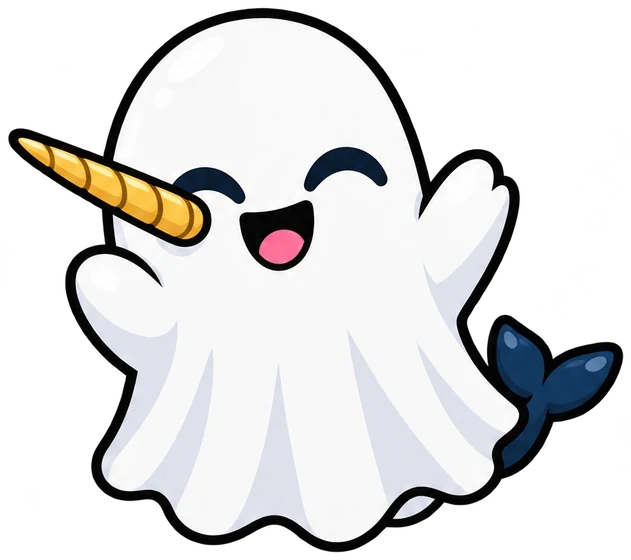
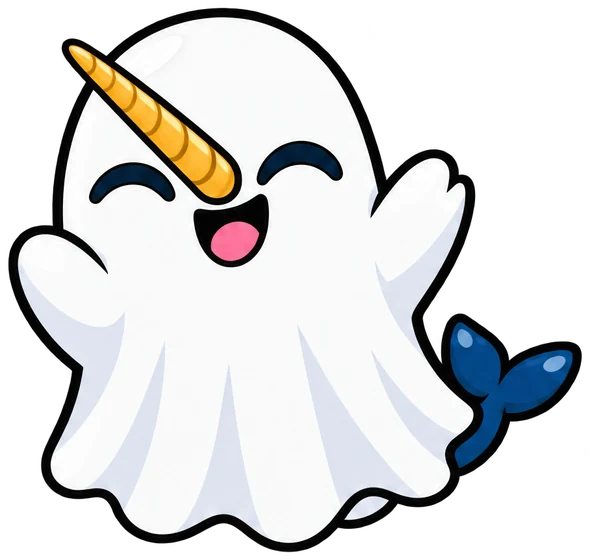
Halloween v7: nothing gets clipped - full-viewport canvas, ghosts fade in/out before the edge, rows moved up; narwhal host redrawn with the tusk centred on its face

Changed region(s): [[0.0, 0.0, 1.0, 1.0]]

diff --git a/Narwhal Thai Table/components/fx/Halloween.tsx b/Narwhal Thai Table/components/fx/Halloween.tsx
@@ -30,9 +30,12 @@ import { cn } from '@/lib/cn';
  * (560 px tall, 25–48 KB each). All the motion — peeking, waving, bubbles,
  * flights, the broom toss, the roar — is this canvas script.
  *
- * Same conventions as components/fx/Airshow.tsx: fixed canvas in the strip
- * under the nav (42 % of the viewport; a 160 px lane on phones — the gang
- * keeps to the right half on wide screens so the headline stays readable),
+ * Same conventions as components/fx/Airshow.tsx: a fixed full-viewport
+ * canvas (so a hem or a tail is never clipped — owner, 27 Oct) laid out in
+ * the strip under the nav (42 % of the viewport; a 160 px lane on phones —
+ * the gang keeps to the right half on wide screens so the headline stays
+ * readable); ghosts fade in on arrival and fade out before they reach the
+ * edge of the screen; only the host's peek is clipped by the edge, on purpose,
  * pauses when the tab is hidden, half-ghosts itself once the reader has
  * scrolled into content, motion always on (owner's rule). Mounted by
  * components/fx/AirshowLayer.tsx while lib/events.ts has an event with
@@ -77,7 +80,7 @@ const TRAITS: Record<Kind, Trait> = {
   devil: { tIn: 15.2, tOut: 29.9, inDur: 1.2, outDur: 1.0, style: 'arc', size: 0.72, bobA: 6, bobF: 0.6, trick: 'spin', every: [2.5, 4.5], trickDur: 0.85, phone: false },
   rider: { tIn: 15.0, tOut: 31.0, inDur: 1.4, outDur: 1.1, style: 'arc', size: 0.88, bobA: 5, bobF: 0.4, trick: 'none', every: [9, 9], trickDur: 0, phone: true },
   pumpkin: { tIn: 15.5, tOut: 30.5, inDur: 2.6, outDur: 2.0, style: 'slow', size: 0.86, bobA: 5, bobF: 0.25, trick: 'lift', every: [3.5, 6], trickDur: 0.9, phone: true },
-  fierce: { tIn: 19.5, tOut: 32.0, inDur: 2.2, outDur: 2.0, style: 'slow', size: 1.15, bobA: 3, bobF: 0.25, trick: 'none', every: [9, 9], trickDur: 0, phone: true },
+  fierce: { tIn: 19.5, tOut: 32.0, inDur: 2.2, outDur: 2.0, style: 'slow', size: 1.1, bobA: 3, bobF: 0.25, trick: 'none', every: [9, 9], trickDur: 0, phone: true },
 };
 const CAST = Object.keys(TRAITS) as Kind[];
 /** what each kind wears */
@@ -123,7 +126,8 @@ export default function Halloween({ className }: Props) {
     if (!ctx) return;
 
     let w = 0;
-    let h = 0; // canvas height = bottom of the band
+    let h = 0; // bottom of the band (layout only — the canvas itself runs the full viewport so nothing is ever clipped)
+    let ch = 0; // canvas height = viewport height
     let yT = 110; // top of the band (under the nav)
     let phone = false;
     let lead = 150; // lead ghost drawn height
@@ -172,8 +176,8 @@ export default function Halloween({ className }: Props) {
         const back = shuffle(cast.filter((k) => ['cat', 'devil', 'candy', 'rider', 'mummy'].includes(k)));
         const frontOrder: (Kind | 'host')[] = [...front.slice(0, 2), 'host', 'fierce', ...front.slice(2)];
         const step = (right - left) / frontOrder.length;
-        frontOrder.forEach((k, i) => seats.push({ kind: k, x: left + step * (i + 0.5), y: bandY(0.74), mul: 1, row: 1 }));
-        back.forEach((k, i) => seats.push({ kind: k, x: left + step * (i + 1) + rand(-10, 10), y: bandY(0.34) + rand(-8, 8), mul: 0.9, row: 0 }));
+        frontOrder.forEach((k, i) => seats.push({ kind: k, x: left + step * (i + 0.5), y: bandY(0.66), mul: 1, row: 1 }));
+        back.forEach((k, i) => seats.push({ kind: k, x: left + step * (i + 1) + rand(-10, 10), y: bandY(0.3) + rand(-6, 6), mul: 0.9, row: 0 }));
       }
       const host = seats.find((s) => s.kind === 'host')!;
       leadSlot = { x: host.x, y: host.y };
@@ -202,12 +206,13 @@ export default function Halloween({ className }: Props) {
       yT = ticker + NAV_H + 6;
       phone = w < 700;
       h = phone ? yT + 160 : Math.max(yT + 220, Math.round(vh * 0.42));
+      ch = vh;
       lead = phone ? 72 : Math.min(170, Math.max(120, vh * 0.2));
       const dpr = Math.min(2, window.devicePixelRatio || 1);
       canvas.width = w * dpr;
-      canvas.height = h * dpr;
+      canvas.height = ch * dpr;
       canvas.style.width = `${w}px`;
-      canvas.style.height = `${h}px`;
+      canvas.style.height = `${ch}px`;
       ctx.setTransform(dpr, 0, 0, dpr, 0, 0);
       seed();
     };
@@ -300,7 +305,7 @@ export default function Halloween({ className }: Props) {
       lastNow = now;
       t += dt;
       if (t >= T_LOOP) { t -= T_LOOP; seed(); }
-      ctx.clearRect(0, 0, w, h);
+      ctx.clearRect(0, 0, w, ch);
 
       const ly = leadY();
       const bobL = Math.sin(t * 0.9 * Math.PI * 2 + leadBob) * 4;
@@ -317,8 +322,12 @@ export default function Halloween({ className }: Props) {
         let y = 0;
         let rot = 0;
         let scale = 1;
+        let alpha = 1;
         let sprite = f.sprite;
         let flip = f.flip;
+        /** ghosts materialise as they arrive and fade as they go — nothing gets sliced by the edge of the screen */
+        const fadeIn = (p: number) => clamp01((p - 0.12) / 0.3); // still fully outside the viewport while invisible
+        const fadeOut = (p: number) => clamp01((0.92 - p) / 0.3); // gone before the edge can slice it
         const bob = Math.sin(t * tr.bobF * Math.PI * 2 + f.bobPh) * tr.bobA;
 
         /** travel between the edge and the slot in this ghost's own style; dir 1 = arriving, -1 = leaving */
@@ -505,6 +514,7 @@ export default function Halloween({ className }: Props) {
             // zooms in on the broom, weaving
             const p = prog(t, tr.tIn, T_RIDER_LOOP - tr.tIn);
             const e = easeOutCubic(p);
+            alpha = fadeIn(p);
             x = lerp(edgeHidden(f.size * 1.3), cx, e);
             y = lerp(f.fromY - 20, cy, e) + Math.sin(p * Math.PI * 2) * 26;
             rot = -0.12 + Math.cos(p * Math.PI * 2) * 0.12;
@@ -536,6 +546,7 @@ export default function Halloween({ className }: Props) {
           else if (t < tr.tOut + tr.outDur) {
             // zooms out the way it came — no broom needed
             const p = easeInCubic(prog(t, tr.tOut, tr.outDur));
+            alpha = fadeOut(prog(t, tr.tOut, tr.outDur));
             x = lerp(f.sx, edgeHidden(f.size * 1.3), p);
             y = lerp(f.sy, f.fromY - 30, p) - Math.sin(p * Math.PI) * 30;
             rot = -0.25 * p;
@@ -543,14 +554,18 @@ export default function Halloween({ className }: Props) {
             flip = false;
           } else continue;
         } else if (t < tr.tIn + tr.inDur) {
-          travel(prog(t, tr.tIn, tr.inDur), 1);
+          const p = prog(t, tr.tIn, tr.inDur);
+          alpha = fadeIn(p);
+          travel(p, 1);
         } else if (t < tr.tOut) {
           settled();
         } else if (t < tr.tOut + tr.outDur) {
           f.ox = 0; f.oy = 0; f.act = 'none';
-          travel(prog(t, tr.tOut, tr.outDur), -1);
+          const p = prog(t, tr.tOut, tr.outDur);
+          alpha = fadeOut(p);
+          travel(p, -1);
         } else continue;
-        draw(sprite, x, y, f.size * scale, rot, 1, flip);
+        draw(sprite, x, y, f.size * scale, rot, alpha, flip);
       }
 
       // the ditched broom tumbles away
@@ -560,7 +575,7 @@ export default function Halloween({ className }: Props) {
         broom.y += broom.vy * dt;
         broom.rot += broom.vr * dt;
         broom.alpha -= dt / 1.4;
-        if (broom.alpha <= 0 || broom.y > h + broom.size) broom.on = false;
+        if (broom.alpha <= 0 || broom.y > ch + broom.size) broom.on = false;
         else draw('broom', broom.x, broom.y, broom.size, broom.rot, broom.alpha, false);
       }
 
